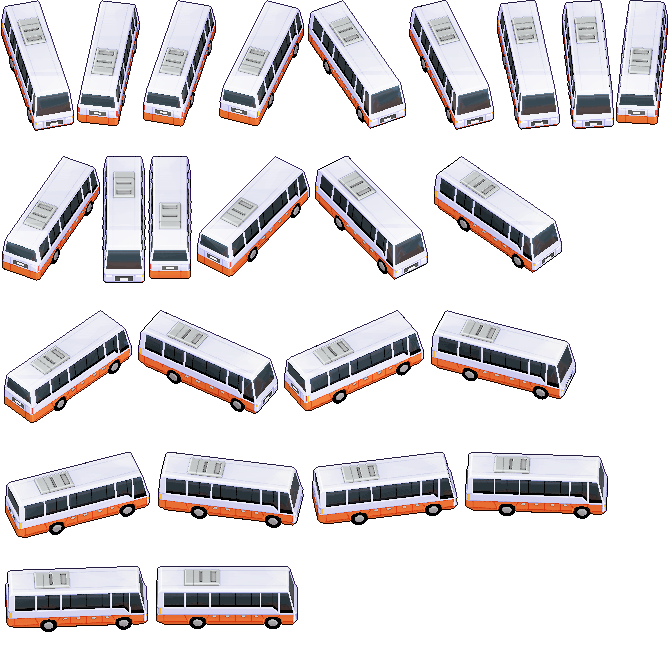
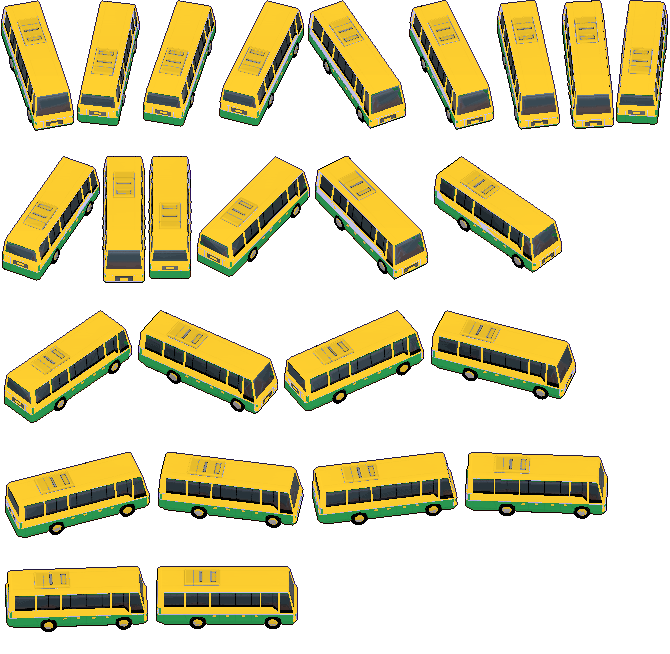
Colectivos con colores de línea porteña (amarillo y verde, crema y rojo)
Claude-Session: https://claude.ai/code/session_015eL21ADLwrYXVptdMb8b8s

diff --git a/herramientas/repintar_autos.py b/herramientas/repintar_autos.py
@@ -88,5 +88,23 @@ def policia_ba(src="policia", out="policia"):
     print("img/autos/" + out)
 
 
+def colectivos_ba():
+    """Colectivos con los colores de las líneas de Buenos Aires: la carrocería blanca toma el color de la línea (con su
+    sombreado) y la pollera, el segundo color. Los vidrios, las ruedas y el equipo del techo quedan."""
+    org = os.path.join(ROOT, "arte/autos_originales")
+    for hoja, cuerpo, pollera in [("colectivo_amarillo", (246, 200, 46), (36, 132, 70)), ("colectivo_azul", (236, 226, 196), (196, 42, 40))]:
+        a = np.array(Image.open(os.path.join(org, hoja + ".png")).convert("RGBA")).astype(float)
+        H, S, V = hsv(a); op = a[..., 3] > 0
+        edge = op & ~ndimage.binary_erosion(op, iterations=1)
+        blanco = op & ~edge & (S < .16) & (V > .62)
+        pol = op & ~edge & (S > .35) & (V > .2)                               # la pollera de color del paquete (naranja o azul)
+        L = V
+        for c in range(3):
+            a[..., c] = np.where(blanco, np.clip(cuerpo[c] * (.55 + .5 * L), 0, 255), a[..., c])
+            a[..., c] = np.where(pol, np.clip(pollera[c] * (.45 + .75 * L), 0, 255), a[..., c])
+        Image.fromarray(a.astype(np.uint8)).save(os.path.join(ROOT, "img/autos", hoja + ".png"))
+        print("img/autos/" + hoja)
+
+
 if __name__ == "__main__":
-    {"taxi_ba": taxi_ba, "policia_ba": policia_ba}[sys.argv[1]]()
+    {"taxi_ba": taxi_ba, "policia_ba": policia_ba, "colectivos_ba": colectivos_ba}[sys.argv[1]]()
